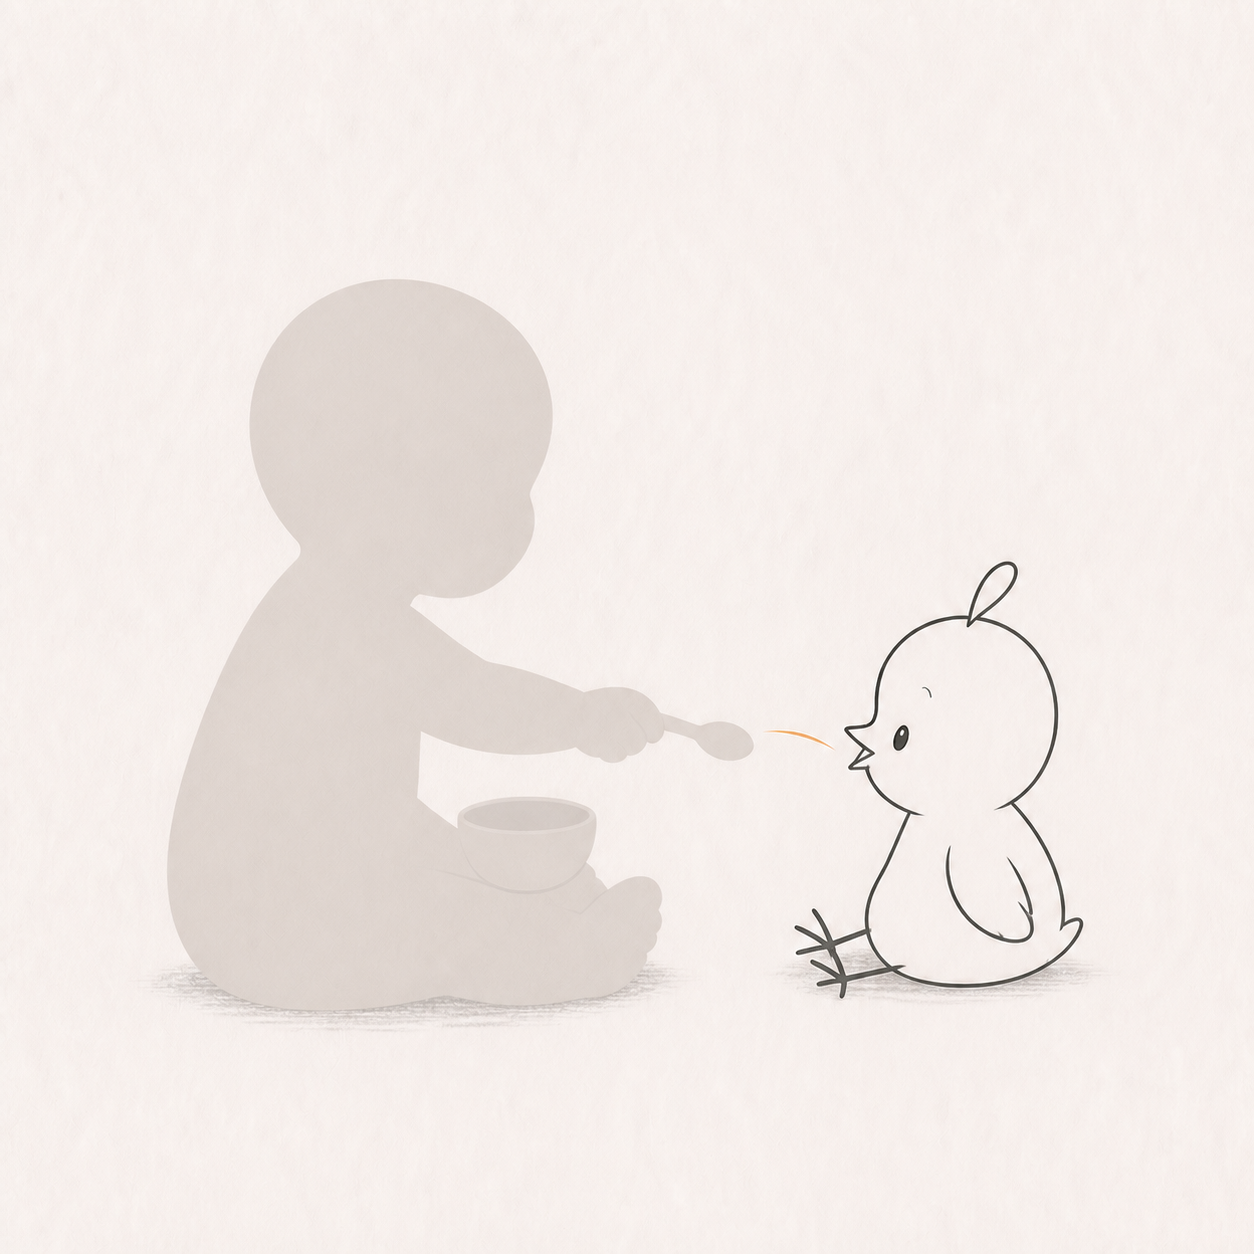
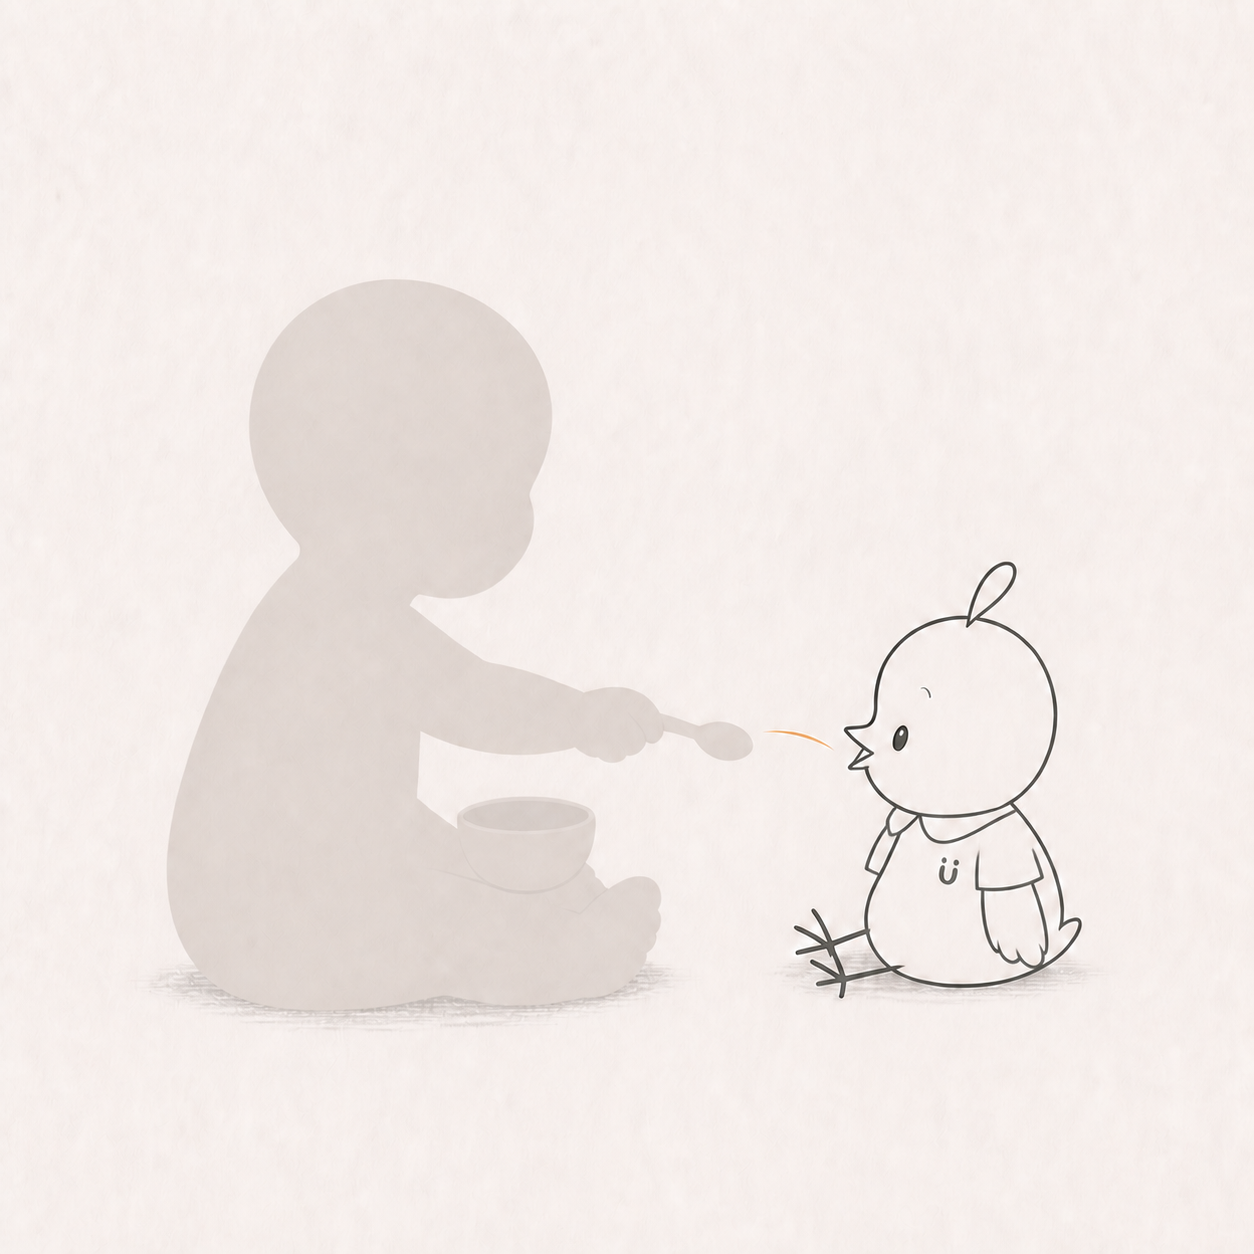
Refine growth frame character consistency

Changed region(s): [[0.6842, 0.5909, 0.8708, 0.7775], [0.7775, 0.4665, 0.8086, 0.4976], [0.6531, 0.7464, 0.6842, 0.7775]]

diff --git a/planning/participatory-growth-frames/index.html b/planning/participatory-growth-frames/index.html
@@ -102,6 +102,7 @@
         <article><button class="visual"><img src="../participatory-growth-frame-studies/gen-frame-ball-exchange.png" alt="足でボールを送り合う子どもとゲン"></button><div class="content"><span class="kind">BALL</span><h3>そっちへ、どうぞ</h3><p class="scene">子どもの足とゲンの足の間にボールを置き、送る・受け取るの往復をつくります。</p><p class="development"><strong>軽く見る発達</strong>片足で立つ／足を前へ出す／ボールへ足を合わせる</p><p class="pose"><strong>写真の姿勢：</strong>横向き・片足をボールへ向ける</p></div></article>
         <article><button class="visual"><img src="../participatory-growth-frame-studies/gen-frame-relax-looking-up.png" alt="仰向けで並んでくつろぐ子どもとゲン"></button><div class="content"><span class="kind">REST</span><h3>並んで空を見る</h3><p class="scene">何かを頑張る時間ではなく、同じ場所で一緒に休む時間を残します。</p><p class="development"><strong>軽く見る発達</strong>仰向けで身体を休める／視線を上へ向ける／安心して静かに過ごす</p><p class="pose"><strong>写真の姿勢：</strong>仰向け。手足の位置は自由</p></div></article>
         <article><button class="visual"><img src="../participatory-growth-frame-studies/gen-frame-supine-feet-mirror.png" alt="仰向けで自分の足をつかむ子どもの隣で同じ形をまねるゲン"></button><div class="content"><span class="role role-milestone">MILESTONE</span><span class="kind">BODY DISCOVERY</span><h3>あし、みつけた</h3><p class="scene">子どもが仰向けで両足を手に取ると、隣のゲンも膝を胸へ寄せ、自分の足をつかんで同じ形を返します。</p><p class="development"><strong>この姿勢・動作で見えること</strong>股関節と膝を曲げる／手で自分の足をつかむ／身体の中央で手足を出会わせる</p><p class="pose"><strong>写真の姿勢：</strong>仰向けで両膝を胸へ寄せ、左右の手でそれぞれの足を持つ。大人は撮影側</p></div></article>
+        <article><button class="visual"><img src="../participatory-growth-frame-studies/gen-frame-rolling-mirror.png" alt="横向きへ寝返ろうとする子どもの身体を隣でまねるゲン"></button><div class="content"><span class="role role-milestone">MILESTONE</span><span class="kind">ROLL &amp; IMITATE</span><h3>ころん、をいっしょに</h3><p class="scene">子どもが膝と腕を向こう側へ運び、身体を横へ向け始めると、ゲンも隣で同じ丸い形を返します。</p><p class="development"><strong>この姿勢・動作で見えること</strong>脚を身体の反対側へ動かす／肩と腰の向きを変える／仰向けから横向きへ移る</p><p class="pose"><strong>写真の姿勢：</strong>仰向けから横向きになる途中。片膝と片腕を身体の反対側へ。大人は撮影側</p></div></article>
         <article><button class="visual"><img src="../participatory-growth-frame-studies/gen-frame-relax-leaning-together.png" alt="並んで座って寄りかかる子どもとゲン"></button><div class="content"><span class="kind">REST</span><h3>寄りかかって、ひと休み</h3><p class="scene">子どもが少し後ろへ寄りかかると、ゲンも同じ角度で隣へ座ります。</p><p class="development"><strong>軽く見る発達</strong>座る／手で身体を支える／自分に合う姿勢で休む</p><p class="pose"><strong>写真の姿勢：</strong>床座り・両手を後ろへ</p></div></article>
         <article><button class="visual"><img src="../participatory-growth-frame-studies/gen-frame-relax-watching-together.png" alt="うつ伏せで同じ小さな物を見る子どもとゲン"></button><div class="content"><span class="kind">CURIOSITY</span><h3>同じ小さなものを見る</h3><p class="scene">虫や葉っぱ、おもちゃなど、子どもの興味の先へゲンも並びます。</p><p class="development"><strong>軽く見る発達</strong>興味のある物を見続ける／同じ対象へ注意を向ける／楽な姿勢を選ぶ</p><p class="pose"><strong>写真の姿勢：</strong>うつ伏せ・頬や顎を手に置く</p></div></article>
         <article><button class="visual"><img src="../participatory-growth-frame-studies/gen-frame-follow-walking.png" alt="歩く子どもの後ろからついていくゲン"></button><div class="content"><span class="kind">FOLLOW</span><h3>歩く子どもの、二歩あと</h3><p class="scene">子どもが行き先を決め、ゲンは同じ方向へ後ろからついていきます。</p><p class="development"><strong>軽く見る発達</strong>前へ歩く／左右へ体重を移す／自分のペースで移動する</p><p class="pose"><strong>写真の姿勢：</strong>歩く後ろ姿。日常の写真をそのまま使える</p></div></article>
@@ -168,6 +169,7 @@
       gen: [
         'gen-frame-relax-looking-up.png',
         'gen-frame-supine-feet-mirror.png',
+        'gen-frame-rolling-mirror.png',
         'gen-frame-prone-dialogue.png',
         'gen-frame-crawling-chase.png',
         'gen-frame-relax-watching-together.png',
@@ -220,7 +222,7 @@
         'cheer-frame-pause-before-trying.png'
       ]),
       milestone: new Set([
-        'gen-frame-prone-dialogue.png','gen-frame-seated-reach.png','gen-frame-balance-mirror.png','gen-frame-ball-exchange.png',
+        'gen-frame-prone-dialogue.png','gen-frame-supine-feet-mirror.png','gen-frame-rolling-mirror.png','gen-frame-seated-reach.png','gen-frame-balance-mirror.png','gen-frame-ball-exchange.png',
         'mimo-frame-shared-pointing.png','mimo-frame-voice-pingpong.png','luke-frame-tiny-discovery.png','luke-frame-shared-line.png',
         'milestone-frame-pull-to-stand.png'
       ])

diff --git a/planning/growth-frame-balance-and-production-plan.md b/planning/growth-frame-balance-and-production-plan.md
@@ -104,6 +104,13 @@
 - 先生固有の道具は通常の線画で残せるが、子どもの動作を代行する物は持たせない。
 - 写真を入れたとき、影の物が実物に置き換わり、イラストと写真の小道具が二重にならないことを確認する。
 
+### キャラクター造形の非交渉条件
+
+- 動物の手足を細い棒や人間の手足へ変形しない。手は指を分けない柔らかな塊、ゲンとルークの足は丸い足先を保つ。
+- ミモの細い鳥脚は正本の種族形状として維持し、ほかの二人へ流用しない。
+- 衣服を省略しない。正面・斜め前では本人から見て右上の胸、背面では上背部に笑顔の With U マークを必ず残す。
+- Uマーク、耳、尾、衣服、手足のいずれかが欠けた画像は、場面がよくても採用しない。
+
 ### 大人が画面に入るか
 
 - 子ども単独で動作が成立し、先生キャラクターが応答相手になれる場面では、大人は画面外の撮影者とする。
@@ -136,7 +143,7 @@
 
 ### 現在の網羅傾向
 
-現在の35枚は、次の領域を比較的よく扱えている。
+現在の36枚は、次の領域を比較的よく扱えている。
 
 - 姿勢と移動: あおむけでの休息と身体探索、うつ伏せ、座る、立つ、歩く、階段、片足でのバランス
 - 共同注意と意図共有: 指差し、同じ物を見る、好きな物を見せる
@@ -146,7 +153,7 @@
 - 生活動作: 自分で食べる、袖へ腕を通す
 - 関係の発達: 求める、応える、差し出す、待つ、助けを提案する、協働する
 
-一方で、寝返り、自己調整、感覚遊び、言葉の発達にはまとまった空白がある。共同注意や歩行をさらに細分化するより、まずこの空白を補う方がシリーズ全体の代表性が高まる。
+寝返りは「ころん、をいっしょに」で補った。一方で、自己調整、感覚遊び、言葉の発達にはまとまった空白がある。共同注意や歩行をさらに細分化するより、まずこの空白を補う方がシリーズ全体の代表性が高まる。
 
 ## 次期カードで優先したい category_stage
 
@@ -191,14 +198,14 @@
 - 着衣スキル: 「おてて、でてきた」
 - 道具操作: 「つぎのページは、その手から」
 
-加えて、次点だった走る・ジャンプから「走る子どもの、そのあとを」「ぴょん、の少しあと」、あおむけの身体探索から「あし、みつけた」を制作した。第一候補の6段階は一巡したため、次は自己調整、感覚遊び、寝返りを検討する。
+加えて、次点だった走る・ジャンプから「走る子どもの、そのあとを」「ぴょん、の少しあと」、あおむけの身体探索から「あし、みつけた」、寝返りから「ころん、をいっしょに」を制作した。第一候補の6段階と寝返りは一巡したため、次は自己調整、感覚遊びを検討する。
 
 ### 次点候補
 
 | category_stage | 補足 |
 |---|---|
 | 走る・ジャンプ | 自由に走る場面と両足で跳ぶ場面を追加済み |
-| あおむけ | 両手で足をつかむ身体探索は追加済み。寝返りは未表現 |
+| あおむけ | 両手で足をつかむ身体探索と、横向きへ移る寝返りを追加済み |
 | 自己調整・ルール | 他児を待つ場面はあるが、止まる、我慢する、自分で落ち着く過程は未表現 |
 | 感覚遊び | 小さな物を見る場面はあるが、砂、水、粘土、異なる質感へ触れる探索はない |
 | 一語文・二〜三語文 | 声の往復はあるが、意味のある言葉や語の組み合わせはない。静止画より動画テンプレート向き |
@@ -220,21 +227,22 @@
 
 1. 並んで空を見る（あおむけ・休む）
 2. あし、みつけた（あおむけ・手足を身体の中央で出会わせる）
-3. ひくいところで、こんにちは（うつ伏せ・頭を上げる）
-4. まって、ゲン（手と膝で進む・動く相手へ近づく）
-5. 同じ小さなものを見る（うつ伏せ・姿勢保持・注視）
-6. 寄りかかって、ひと休み（座位・手で支える）
-7. ここまで、とどいた（座位を保って手を伸ばす）
-8. 立てた手は、まだここに（つかまり立ち）
-9. 歩く子どもの、二歩あと（歩行）
-10. こっち、いっしょに（ゲンの手を取り、自分の意図へ導く）
-11. 走る子どもの、そのあとを（走行・腕と足の交互運動）
-12. ぴょん、の少しあと（両足ジャンプ）
-13. おてて、でてきた（着衣・袖へ腕を通す）
-14. 一歩手前で、いっしょに見る（移動後に止まる・判断する）
-15. 階段の、一段あと（段差昇降）
-16. おなじ傾き（片足荷重・バランス・身体模倣）
-17. そっちへ、どうぞ（片足支持とボール操作）
+3. ころん、をいっしょに（仰向けから横向きへの寝返り）
+4. ひくいところで、こんにちは（うつ伏せ・頭を上げる）
+5. まって、ゲン（手と膝で進む・動く相手へ近づく）
+6. 同じ小さなものを見る（うつ伏せ・姿勢保持・注視）
+7. 寄りかかって、ひと休み（座位・手で支える）
+8. ここまで、とどいた（座位を保って手を伸ばす）
+9. 立てた手は、まだここに（つかまり立ち）
+10. 歩く子どもの、二歩あと（歩行）
+11. こっち、いっしょに（ゲンの手を取り、自分の意図へ導く）
+12. 走る子どもの、そのあとを（走行・腕と足の交互運動）
+13. ぴょん、の少しあと（両足ジャンプ）
+14. おてて、でてきた（着衣・袖へ腕を通す）
+15. 一歩手前で、いっしょに見る（移動後に止まる・判断する）
+16. 階段の、一段あと（段差昇降）
+17. おなじ傾き（片足荷重・バランス・身体模倣）
+18. そっちへ、どうぞ（片足支持とボール操作）
 
 ### ミモ｜声から意図共有へ
 
